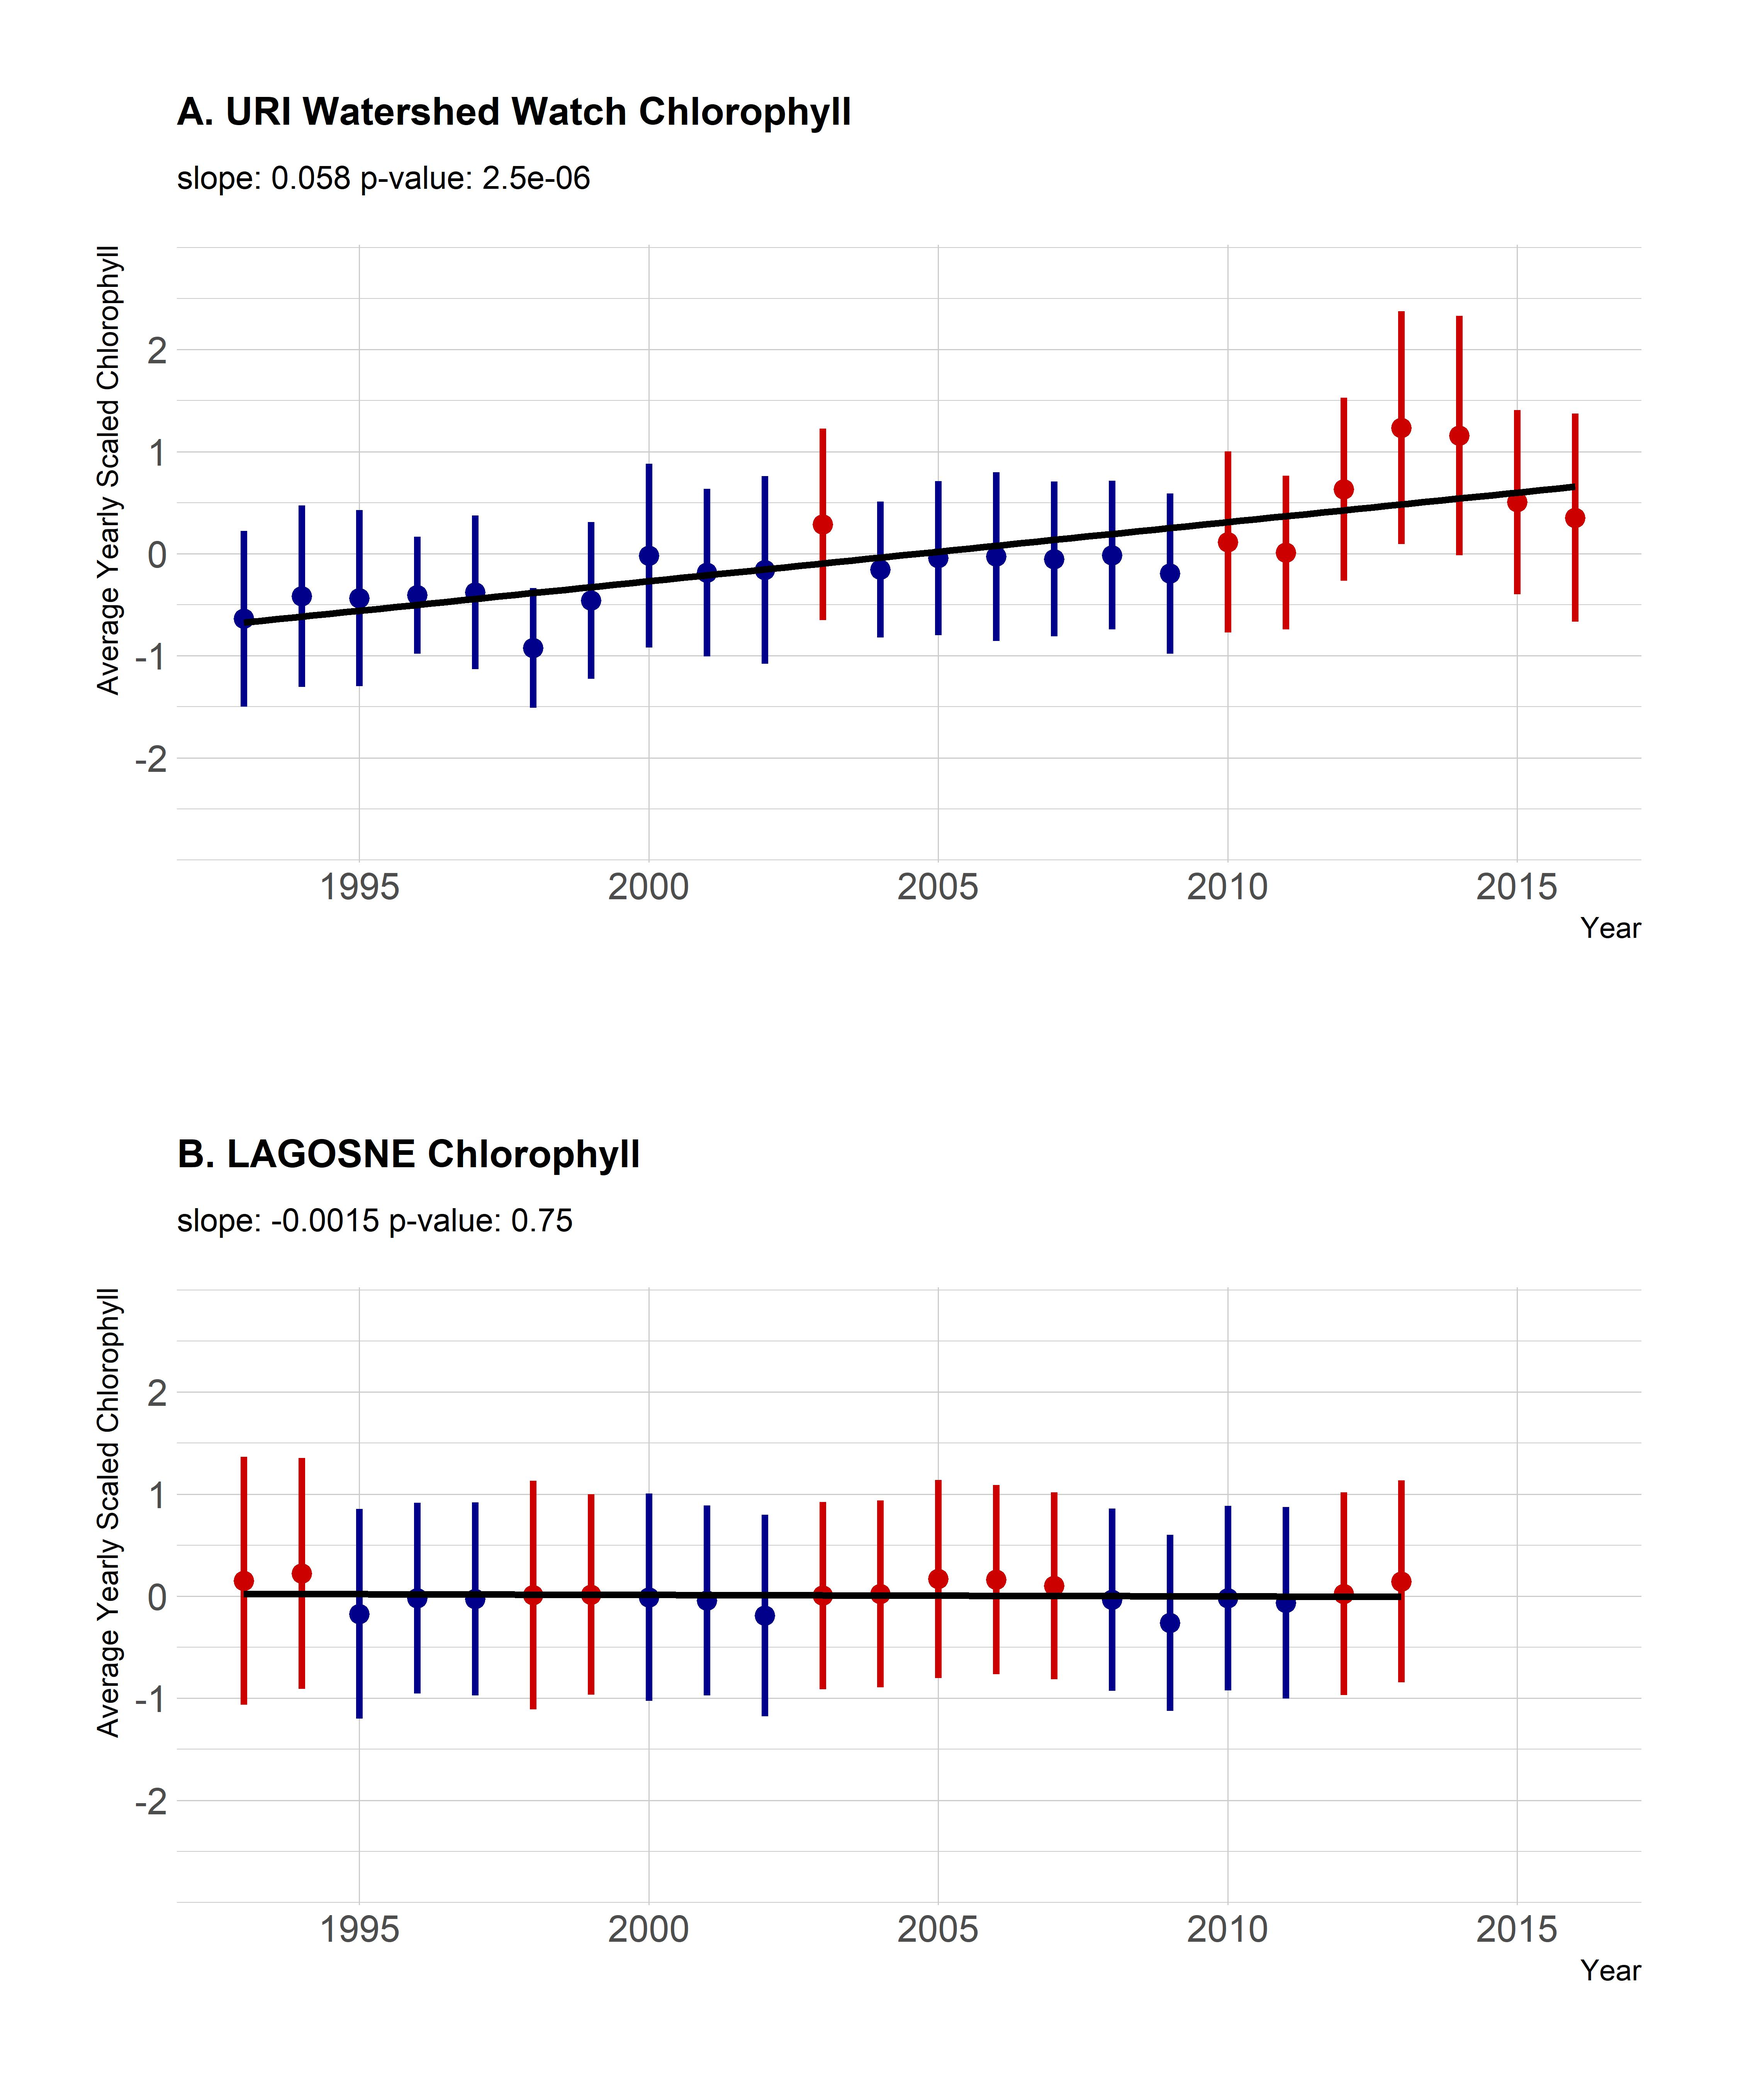
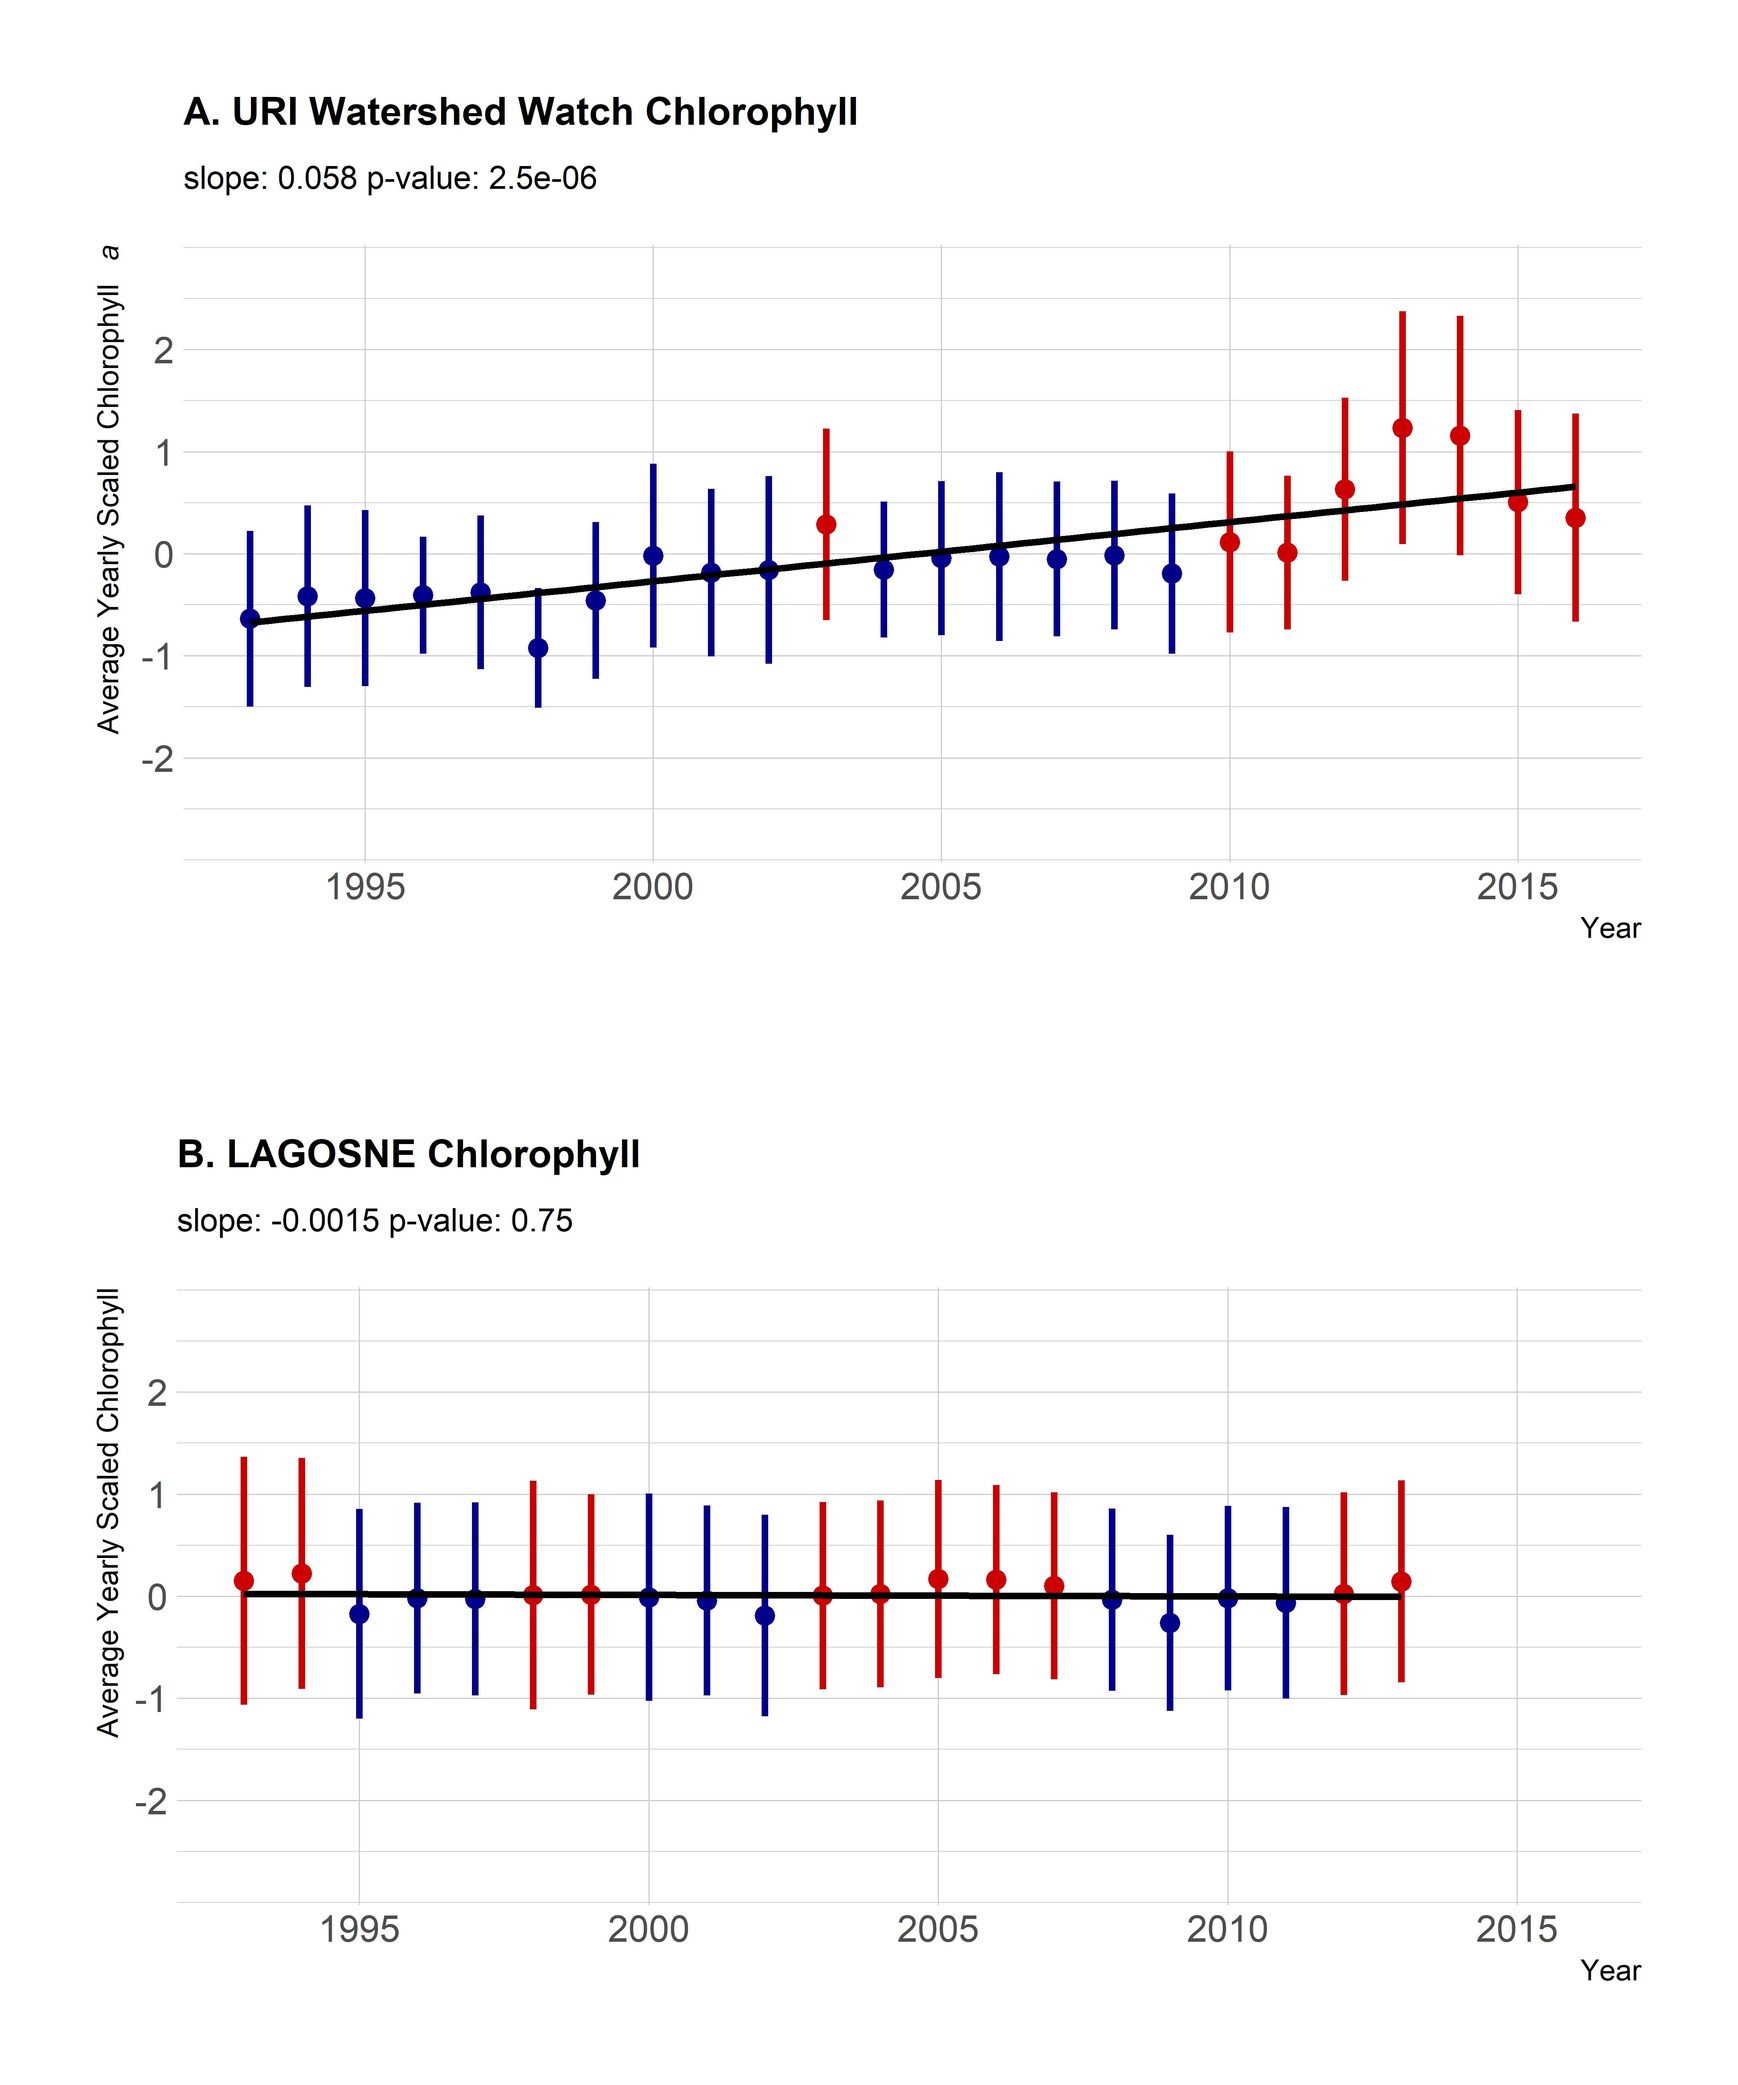
updated figure caption to italics a

diff --git a/nalms_2019_abstract/nalms_2019_ri_wq_trends.md b/nalms_2019_abstract/nalms_2019_ri_wq_trends.md
@@ -6,5 +6,5 @@ output:
     reference_docx: abstract_template.docx
 ---
   
-Addressing anthropogenic impacts on aquatic ecosystems has long been the focus of lake management. Controlling phosphorus and nitrogen can mitigate the impacts of eutrophication, but to determine its effectiveness requires long-term datasets.  A recent analysis of the LAke multi-scaled GeOSpatial and temporal database (LAGOSNE), found stable water quality in the Northeast and Midwestern regions of the United States, however, trends at smaller scales may be masked.  We address this by analyzing the University of Rhode Island’s Watershed Watch Volunteer Monitoring Program (URIWW) dataset.  URIWW has collected water quality data on Rhode Island lakes and reservoirs for over 25 years. These data, included in LAGOSNE, allow for comparison of water quality trends at regional and state extents. We assess for trends with z-scores (i.e. scaled anomalies) calculated on a per-station basis and examine yearly averages.  Temperature and chlorophyll *a* are increasing.  Total nitrogen shows a weak increasing trend driven by low years in the early 1990s.  Total phosphorus and the nitrogen:phosphorus ratio (N:P) were stable.  Applying the site-specific z-score approach to LAGOSNE found similar trends to prior studies with chlorophyll *a*, total nitrogen, total phosphorus, and N:P all stable over time.  In short, productivity in Rhode Island lakes and reservoirs is increasing, in spite of stable nutrient regimes. Although not causal, this analysis suggests an association between lake temperature and productivity.  Additionally, we demonstrate both the value of long-term monitoring programs, like URIWW, for identifying trends in environmental condition, and the utility of site-specific z-scores for analyzing for long-term trends. 
+Addressing anthropogenic impacts on aquatic ecosystems has long been the focus of lake management. Controlling phosphorus and nitrogen can mitigate impacts of eutrophication, but determine management effectiveness requires long-term datasets.  Others recently analyzed the LAke multi-scaled GeOSpatial and temporal database (LAGOSNE) and found stable water quality in the Northeastern and Midwestern United States, however, trends at smaller scales may be masked.  We address this by analyzing the University of Rhode Island’s Watershed Watch Volunteer Monitoring Program (URIWW) dataset.  URIWW has collected water quality data on Rhode Island lakes and reservoirs for over 25 years. The LAGOSNE and URIWW datasets allow for comparison of water quality trends at regional and state extents. We assess trends with yearly averaged z-scores (i.e. scaled anomalies) calculated on a per-station basis for both the LAGOSNE and URIWW datasets.  Temperature and chlorophyll *a* increased from 1993 to 2016.  Total nitrogen shows a weak increase driven by low years in the early 1990s.  Total phosphorus and the nitrogen:phosphorus ratio (N:P) were stable.  Applying the site-specific z-score approach to LAGOSNE found similar trends to prior studies with chlorophyll *a*, total nitrogen, total phosphorus, and N:P all stable over time.  In short, productivity in Rhode Island lakes and reservoirs is increasing, in spite of stable nutrient regimes. Although not causal, this analysis suggests an association between lake temperature and productivity.  Additionally, we demonstrate both the value of long-term monitoring programs, like URIWW, for identifying trends in environmental condition, and the utility of site-specific z-scores for analyzing for long-term trends. 
 
